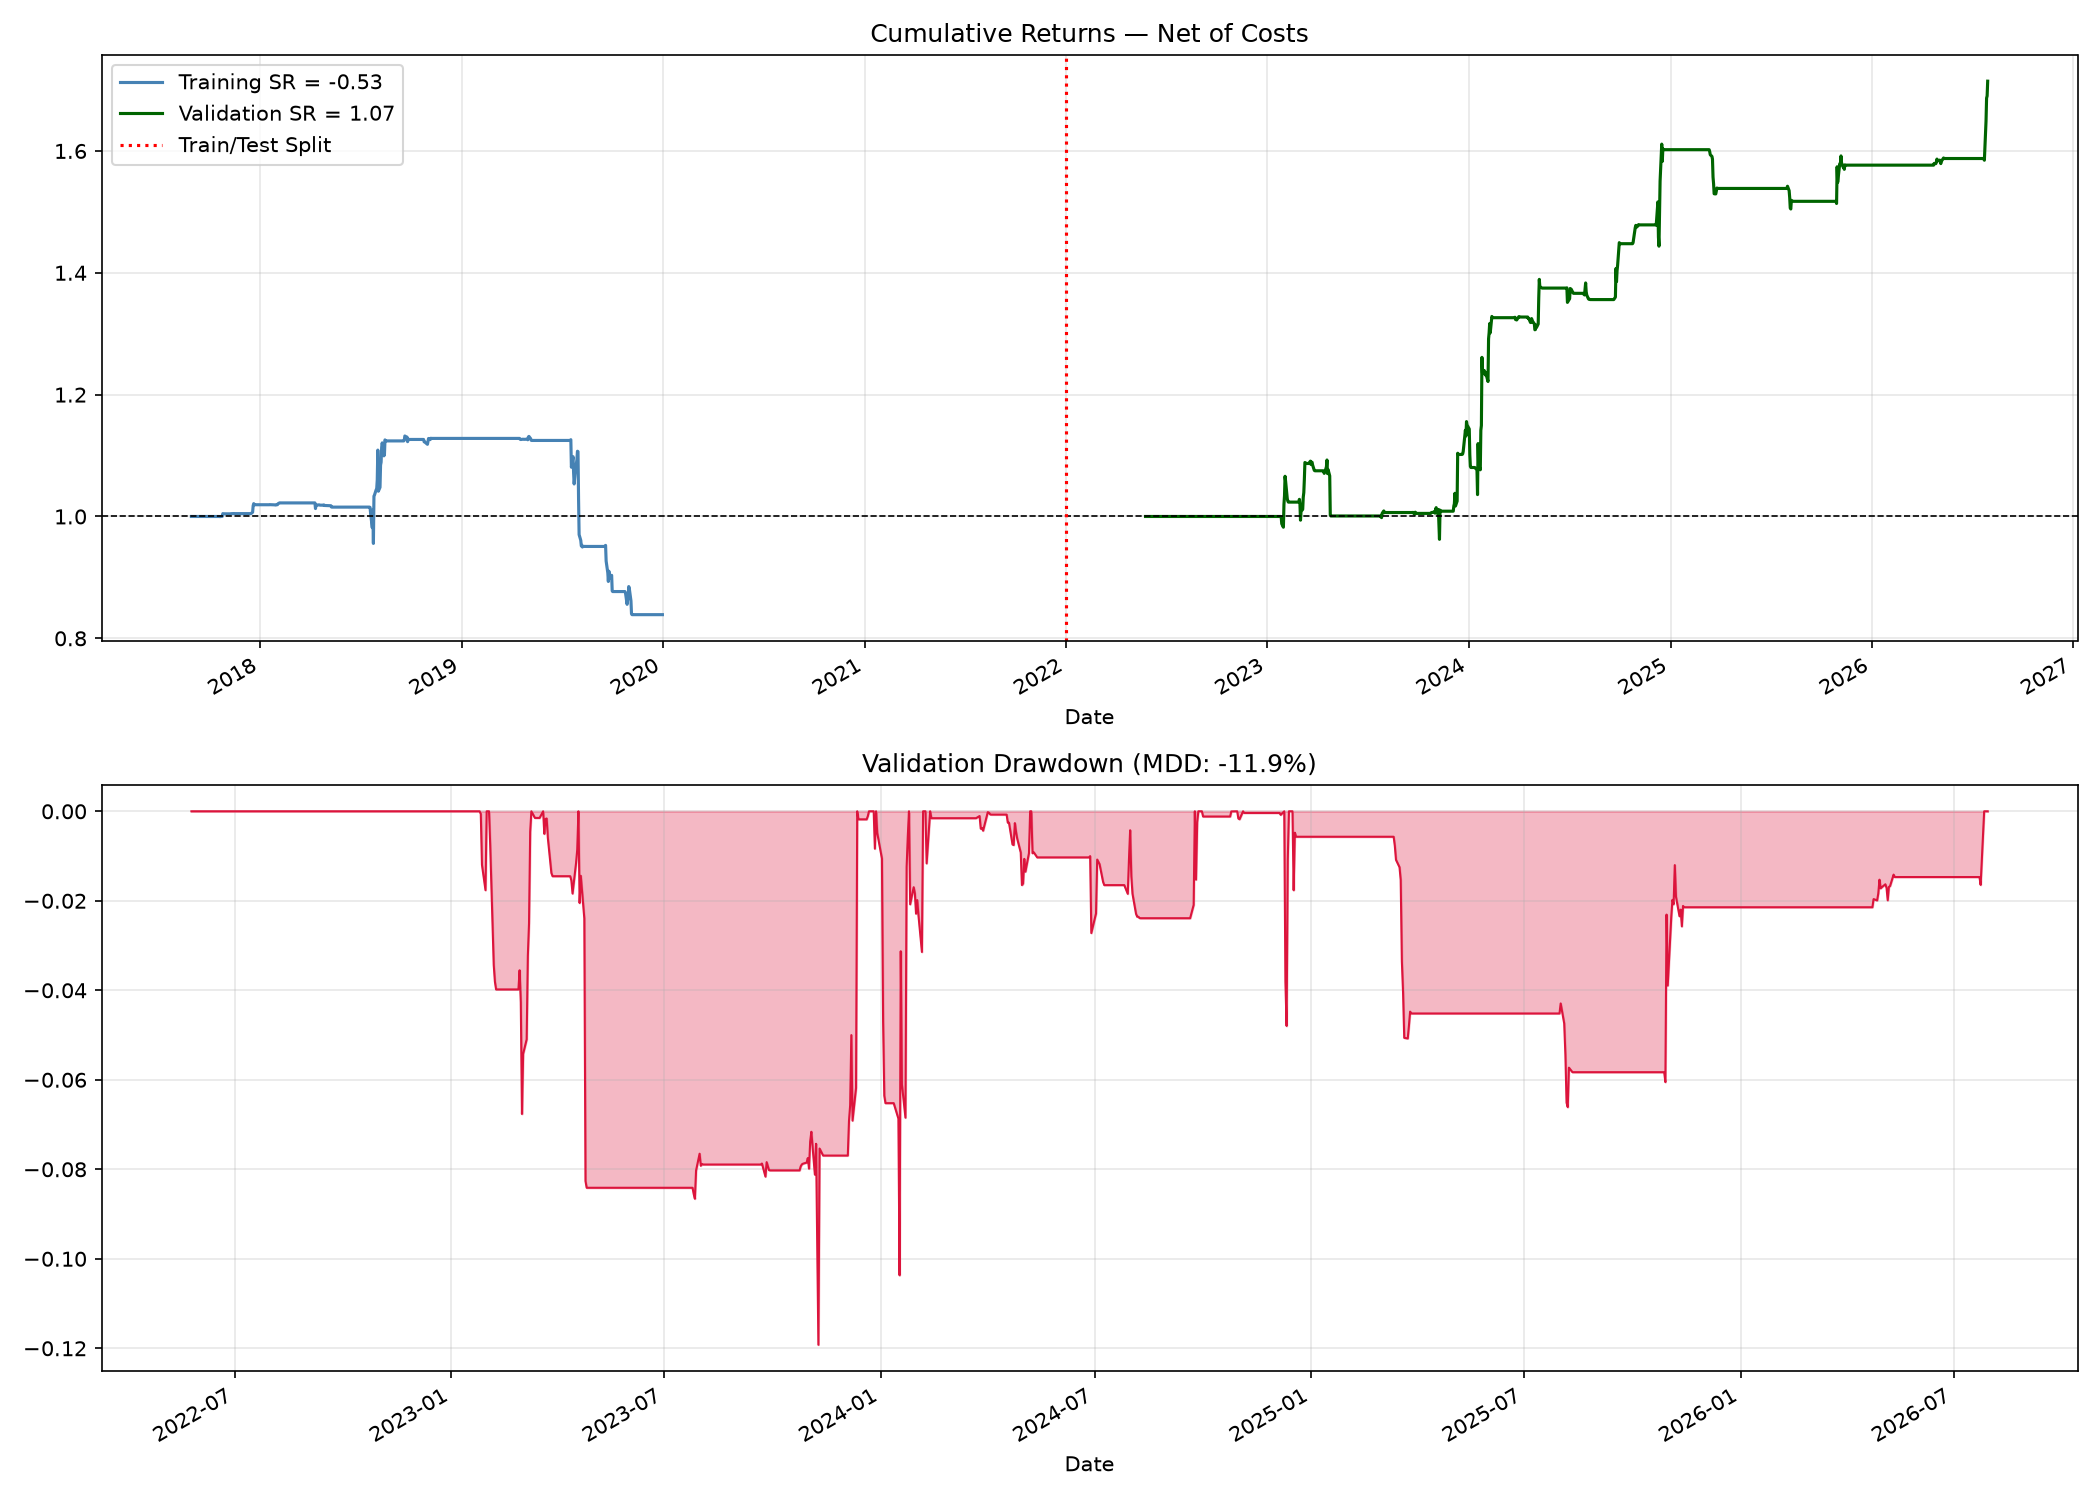
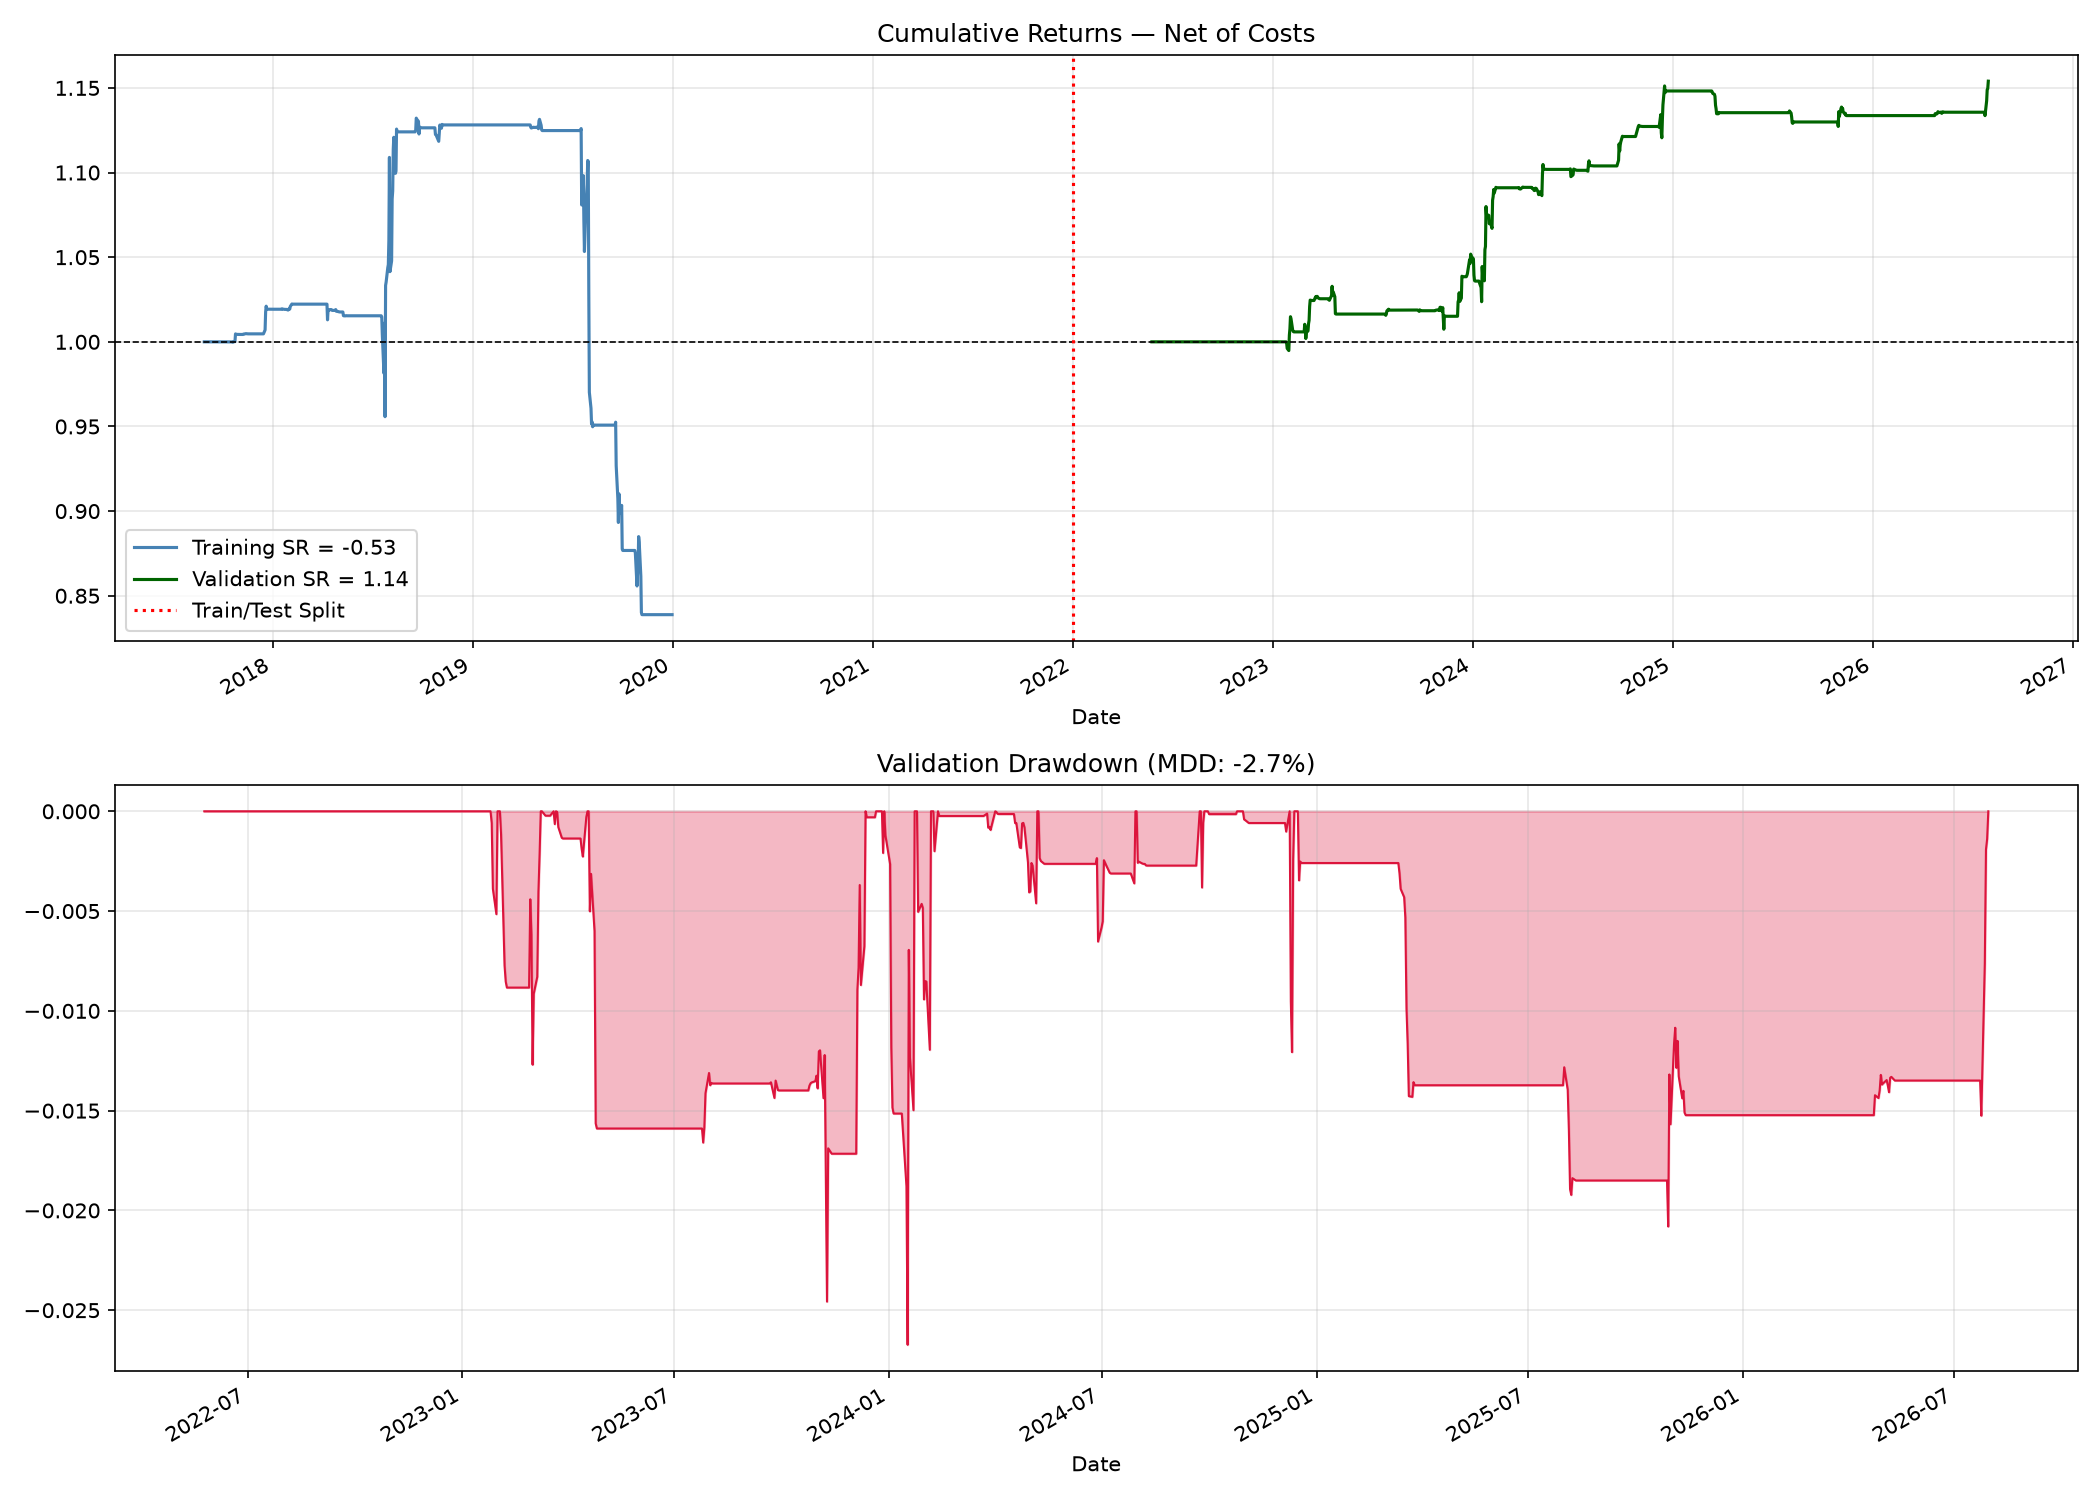
Fixed leverage implementation error

diff --git a/run.py b/run.py
@@ -93,7 +93,6 @@ def main() -> dict:
 
     positions_test = bt.construct_portfolio(signals_test, zscores = zscores_test, residuals = residuals_test)
     positions_test = bt.apply_macro_regime_filter(positions_test, test_macro)
-    positions_test = bt.apply_constant_leverage(positions_test, leverage = 4.0)
 
     net_test, trades_test = bt.compute_portfolio_returns(positions_test, test_stocks)
     perf_test = bt.compute_performance(net_test, trades_test, test_macro)
